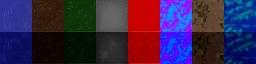
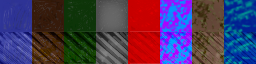
improved spritemap load function loads n sprites based on defined dimensions, auto-indexes and sets max sprites

diff --git a/levels/level000.h b/levels/level000.h
@@ -22,14 +22,14 @@ int lvl0000[32][40] =
     { 2,2,2,2,3,2,2,2,3,2,3,2,2,2,3,2,3,2,2,2,3,2,2,2,2,2,3,2,2,2,2,2,2,2,3,2,2,2,2,2 },
     { 2,2,2,2,3,2,3,3,3,2,3,3,3,2,3,2,3,3,3,3,3,3,3,3,3,3,3,3,3,3,2,2,3,3,3,2,3,3,2,2 },
     { 2,2,2,2,2,2,2,2,2,2,2,2,2,2,2,2,2,2,2,2,2,2,2,2,2,2,3,2,2,2,2,2,3,2,2,2,2,2,2,2 },
-    { 2,2,2,2,2,2,2,2,2,2,2,2,2,2,2,2,2,2,2,2,3,2,3,3,3,3,3,2,3,2,3,2,3,2,3,3,2,2,1,1 },
-    { 2,2,2,2,2,2,2,2,2,3,2,2,2,2,2,2,2,2,2,2,3,2,2,2,2,2,3,2,3,2,2,2,3,2,3,2,3,2,1,1 },
-    { 2,2,2,2,2,2,3,3,3,3,3,3,3,3,2,2,2,2,3,2,3,3,3,3,3,2,3,2,3,3,2,3,3,2,3,2,3,2,1,1 },
-    { 2,2,2,2,2,2,2,2,2,3,2,2,1,1,2,2,2,2,2,2,2,2,2,2,3,2,3,2,3,2,2,2,3,2,3,2,3,2,1,1 },
-    { 1,2,2,2,2,2,2,2,2,3,3,3,3,1,2,2,2,2,2,2,3,3,3,2,3,2,3,2,3,2,2,2,3,2,3,2,3,2,2,1 },
-    { 1,1,1,1,2,2,2,2,2,3,2,1,1,1,2,2,2,2,2,2,2,2,2,2,3,2,3,2,3,2,2,2,3,2,2,2,3,2,2,1 },
-    { 1,1,1,1,1,1,2,2,2,2,1,2,1,2,2,2,2,2,2,2,3,3,3,2,3,2,3,2,3,2,2,3,3,3,3,3,3,3,2,1 },
-    { 2,1,1,1,1,1,2,2,2,1,2,2,2,2,2,2,2,2,2,2,3,2,2,2,3,2,2,2,3,2,2,2,2,2,2,2,3,2,2,1 },
-    { 2,1,1,1,1,1,1,2,2,2,2,2,2,2,2,2,2,2,2,2,3,2,3,3,3,3,3,3,3,3,3,2,3,3,3,2,3,2,2,2 },
-    { 1,1,1,1,1,1,1,2,2,2,2,2,2,2,2,2,2,2,2,2,3,2,2,2,2,2,2,2,2,2,2,2,3,2,2,2,2,2,2,1 },
+    { 2,2,2,2,2,2,2,2,2,2,2,2,3,3,3,3,3,3,3,3,3,3,2,3,3,3,3,2,3,2,3,2,3,2,3,3,2,2,1,1 },
+    { 2,2,2,2,2,2,2,2,2,3,2,2,3,0,1,2,3,4,5,6,7,3,2,2,2,2,3,2,3,2,2,2,3,2,3,2,3,2,1,1 },
+    { 2,2,2,2,2,2,3,3,3,3,3,2,3,0,1,2,3,4,5,6,7,3,2,3,3,2,3,2,3,3,2,3,3,2,3,2,3,2,1,1 },
+    { 2,2,2,2,2,2,2,2,2,3,2,2,3,0,1,2,3,4,5,6,7,3,2,2,3,2,3,2,3,2,2,2,3,2,3,2,3,2,1,1 },
+    { 1,2,2,2,2,2,2,2,2,3,3,2,3,8,9,10,11,12,13,14,15,3,2,2,3,2,3,2,3,2,2,2,3,2,3,2,3,2,2,1 },
+    { 1,1,1,1,2,2,2,2,2,3,2,1,3,8,9,10,11,12,13,14,15,3,2,2,3,2,3,2,3,2,2,2,3,2,2,2,3,2,2,1 },
+    { 1,1,1,1,1,1,2,2,2,2,1,2,3,8,9,10,11,12,13,14,15,3,2,2,3,2,3,2,3,2,2,3,3,3,3,3,3,3,2,1 },
+    { 2,1,1,1,1,1,2,2,2,1,2,2,3,8,9,10,11,12,13,14,15,3,2,2,3,2,2,2,3,2,2,2,2,2,2,2,3,2,2,1 },
+    { 2,1,1,1,1,1,1,2,2,2,2,2,3,3,3,3,3,3,3,3,3,3,2,3,3,3,3,3,3,3,3,2,3,3,3,2,3,2,2,2 },
+    { 1,1,1,1,1,1,1,2,2,2,2,2,2,2,2,2,2,2,2,2,2,2,2,2,2,2,2,2,2,2,2,2,3,2,2,2,2,2,2,1 },
 };

diff --git a/levelEditor.py b/levelEditor.py
@@ -26,16 +26,6 @@ LAVA = 4
 MAGIC = 5
 DIRT = 6
 RIVER = 7
-DARKWATER = 8
-DARKSAND = 9
-DARKGRASS = 10
-DARKSTONE = 11
-DARKLAVA = 12
-DARKMAGIC = 13
-DARKDIRT = 14
-DARKRIVER = 15
-#highest tile type value, don't ask why (because it's not a list, duh)
-maxTiles = 15
 
 # Define failback colors for each tile ID
 TILE_COLORS = {
@@ -47,15 +37,6 @@ TILE_COLORS = {
     MAGIC: (64,64,64),
     DIRT: (128,64,0),
     RIVER: (0,0,96),
-    DARKWATER: (0, 0, 128),
-    DARKSAND: (96, 64, 0),
-    DARKGRASS: (0, 96, 0),
-    DARKSTONE: (96, 96, 96),
-    DARKLAVA: (128,0,0),
-    DARKMAGIC: (64,64,64),
-    DARKDIRT: (128,64,0),
-    DARKRIVER: (0,0,96),
-
     # Add more colors as needed
 }
 
@@ -75,7 +56,9 @@ statusString = "test"
 statusTimeout = 0
 statusLimit = 100
 id = 0
-
+maxTiles = 0
+#SPRITE DIMENSIONS IN PACKED SPRITESHEET, IMPORTANT
+tile_size = (32, 32)
 
 
 
@@ -138,8 +121,9 @@ def load_tiles(spritemap_path, tile_size):
 # Example usage
 pygame.init()
 screen = pygame.display.set_mode((800, 600))
-tile_size = (32, 32)
+
 tiles = load_tiles('./tilemap.png', tile_size)
+maxTiles = len(tiles) - 1
 
 def generate_maze(width, height):
     # Ensure dimensions are even for the maze generation
@@ -439,7 +423,7 @@ def render_tilemap(tilemap, tiles, bigMap, id):
         # Display status texts
         text_surface = my_font.render("map: " + str(id), True, (255,255,255))
         text_surface2 = my_font.render("F2/F3 select map | +/- to zoom in/out", True, (255,255,255))
-        text_surface3 = my_font.render("current tile", True, (255,255,255))
+        text_surface3 = my_font.render("current tile: " + str(cursorState) , True, (255,255,255))
         
         screen.blit(text_surface, (0, screenyDim - 75))
         screen.blit(text_surface2, (150, screenyDim - 75))
